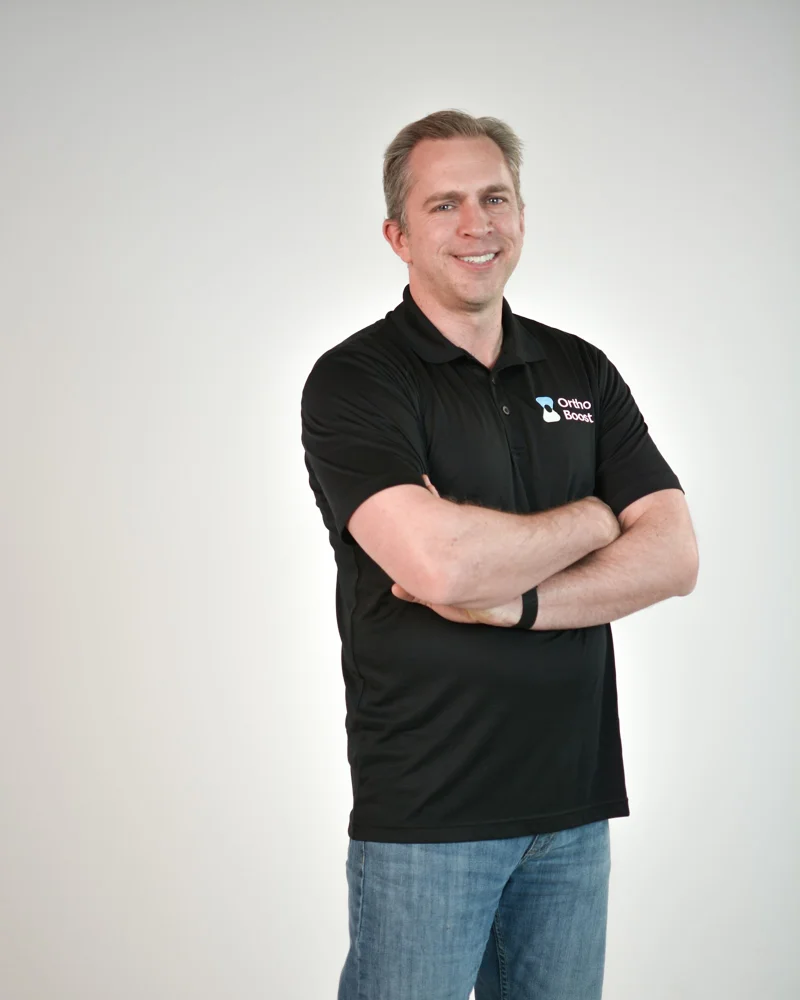
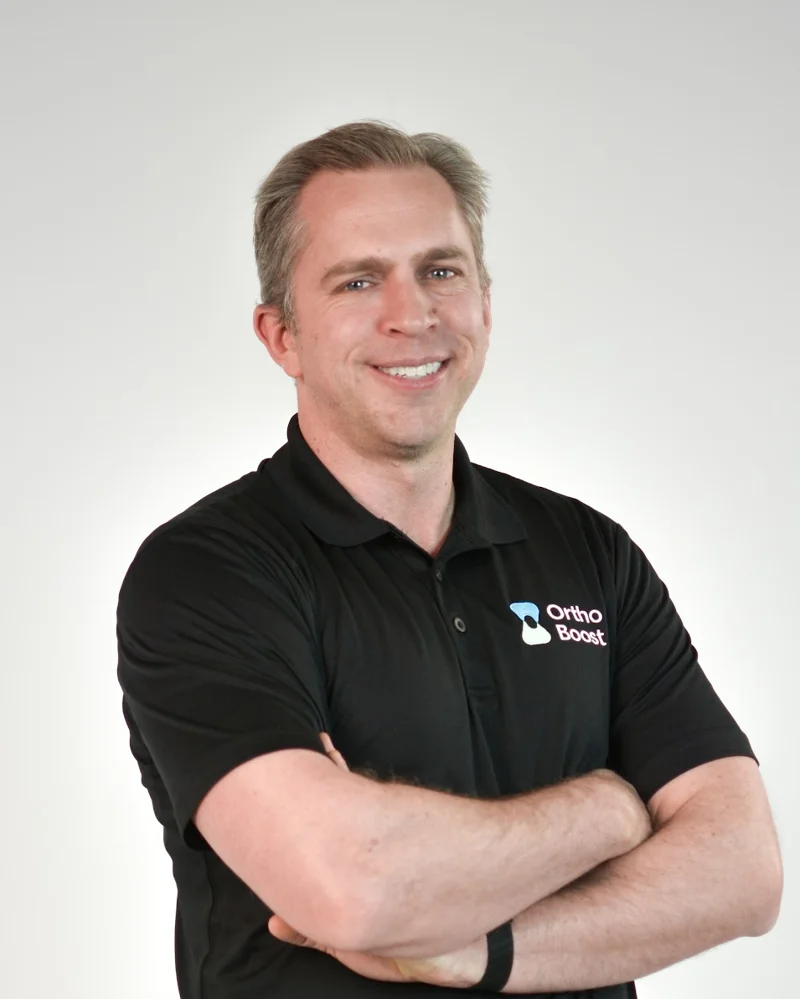
Face-aware uniform team crops; revert founder portrait to original headshot

diff --git a/index.html b/index.html
@@ -712,7 +712,7 @@ footer{background:var(--navy);color:var(--white);border-top:1px solid var(--w-16
 <section class="founder on-dark" id="about">
   <div class="wrap founder-grid">
     <div class="portrait rv">
-      <img src="/assets/team/dr-tyler-coles.webp" alt="Dr. Tyler Coles, founder of OrthoBoost">
+      <img src="/assets/tyler-coles-headshot-800.webp" alt="Dr. Tyler Coles, founder of OrthoBoost">
       <div class="roi-chip">
         <div class="n">2&rarr;6</div>
         <div class="l">Locations grown &amp; sold</div>

diff --git a/about.html b/about.html
@@ -662,7 +662,7 @@ footer{background:var(--navy);color:var(--white);border-top:1px solid var(--w-16
   <div class="wrap founder-grid">
     <div class="portrait-col rv">
       <div class="portrait">
-        <img src="/assets/team/dr-tyler-coles.webp" alt="Dr. Tyler Coles, founder of OrthoBoost">
+        <img src="/assets/tyler-coles-headshot-800.webp" alt="Dr. Tyler Coles, founder of OrthoBoost">
         <div class="roi-chip">
           <div class="n">2&rarr;6</div>
           <div class="l">Locations grown &amp; sold</div>
